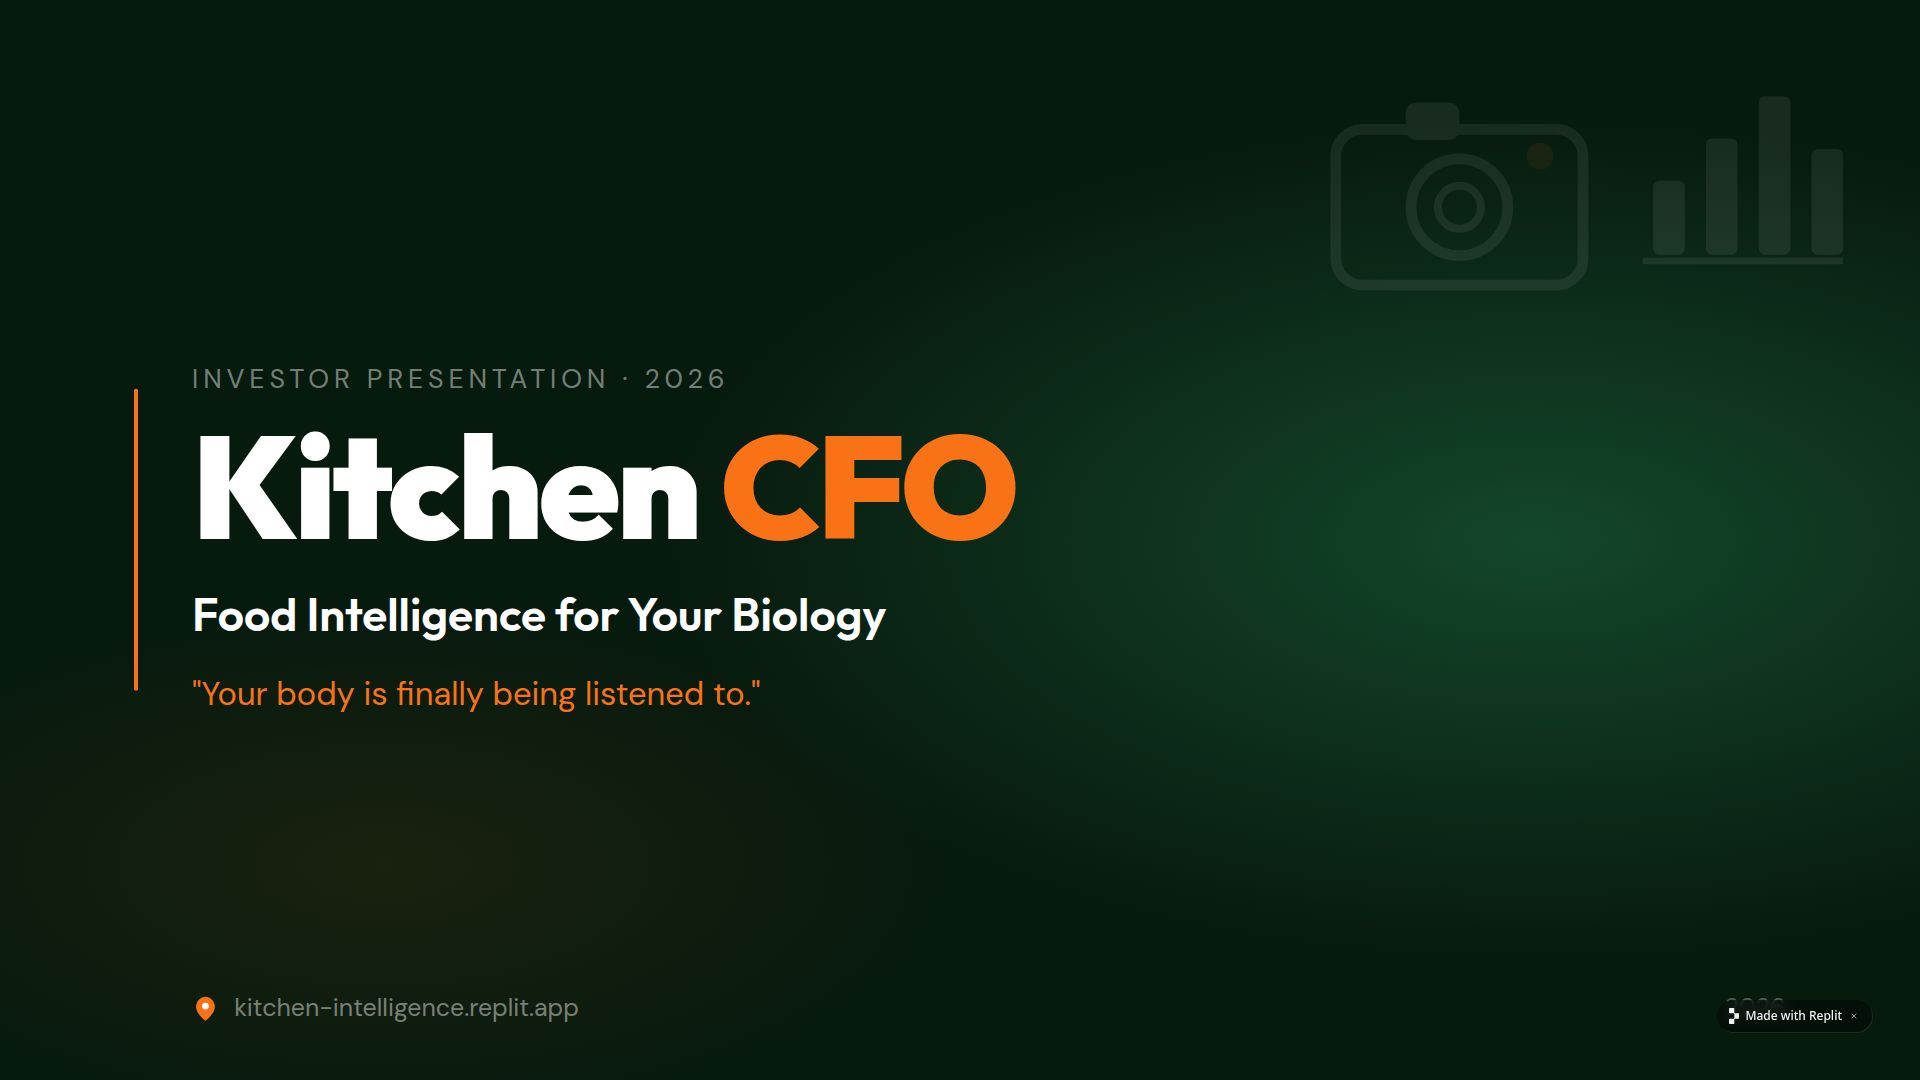
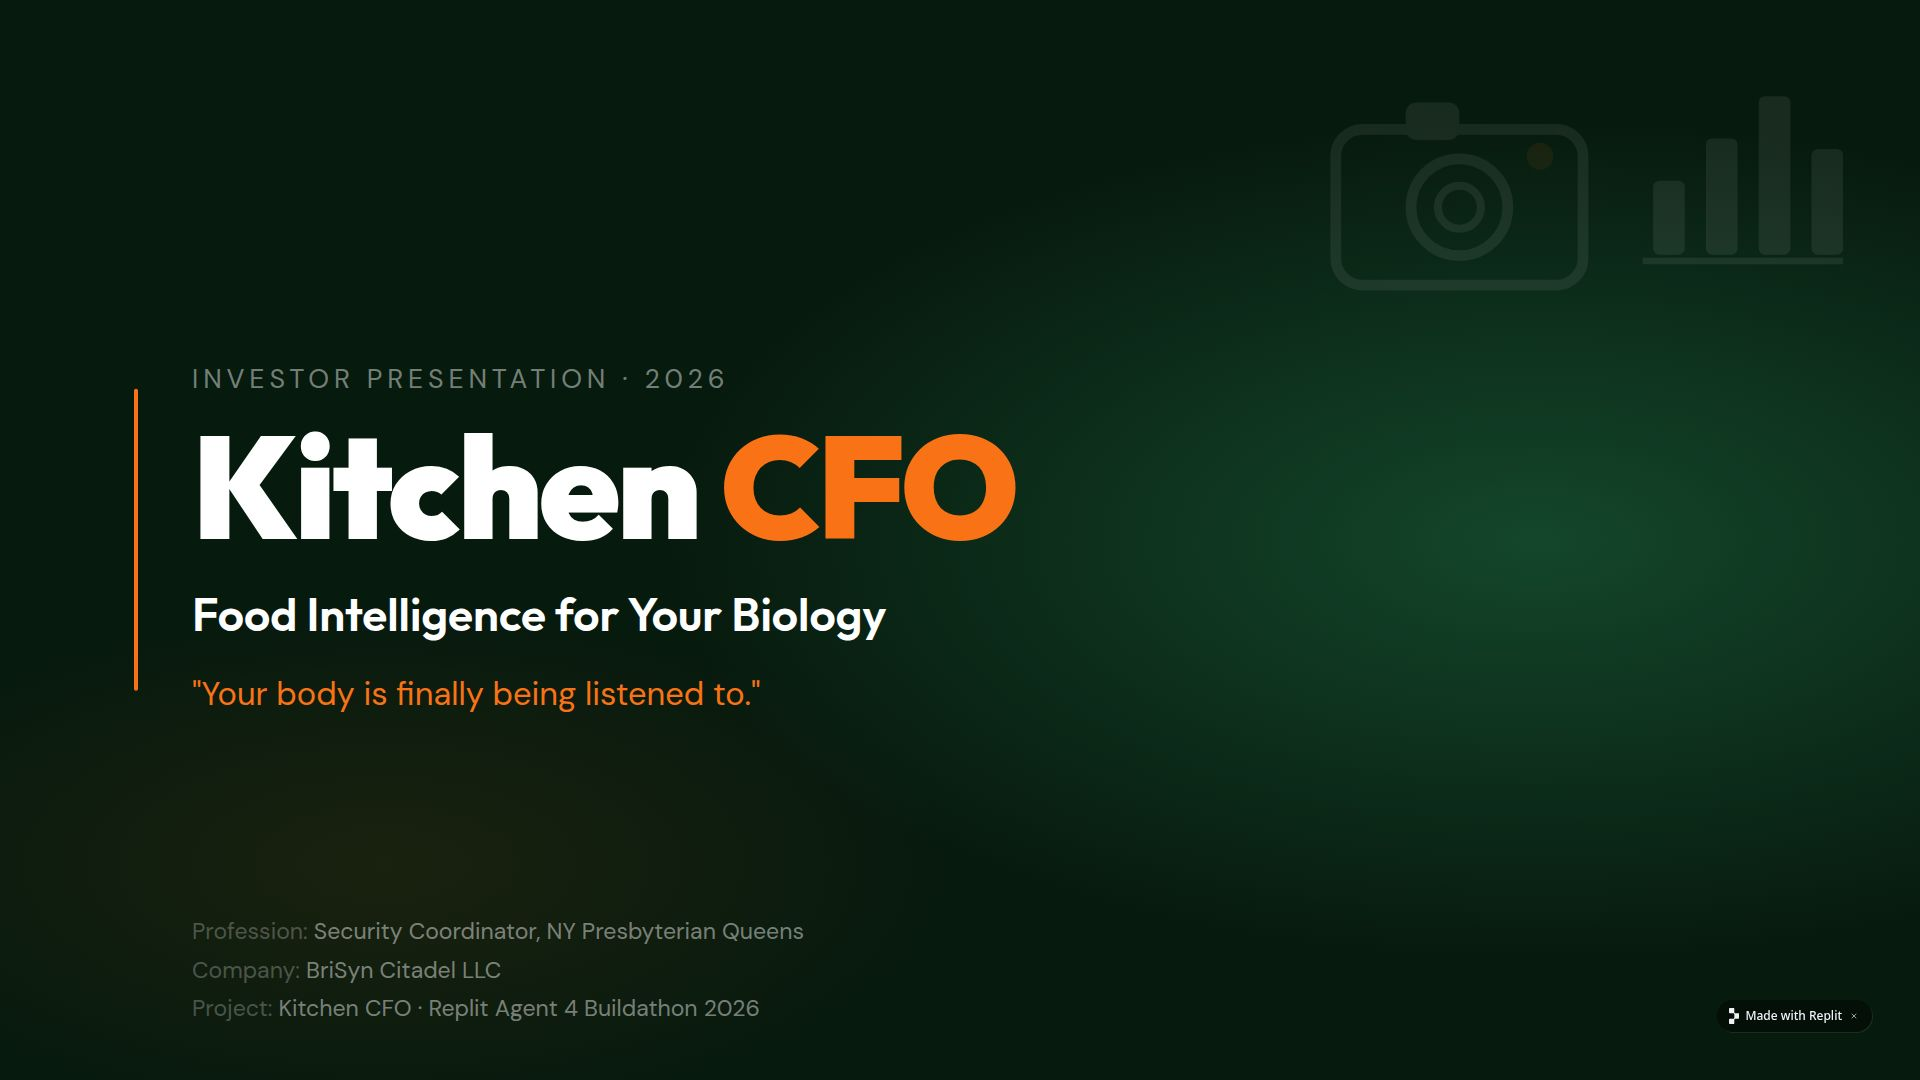
Update founder slide with personal and project credentials
Replace the website URL and year on the cover slide with the founder's profession, company, and project details.

Replit-Commit-Author: Agent
Replit-Commit-Session-Id: 745fa8b2-020f-492d-bbb9-6cfa988cd787
Replit-Commit-Checkpoint-Type: full_checkpoint
Replit-Commit-Event-Id: 27da4205-3aac-4eed-b647-15f0ba95cf77
Replit-Commit-Screenshot-Url: https://storage.googleapis.com/screenshot-production-us-central1/0ca190ca-fabc-4af2-86da-31d5412bf2b9/745fa8b2-020f-492d-bbb9-6cfa988cd787/2TSGZjT
Replit-Helium-Checkpoint-Created: true

Changed region(s): [[0.0938, 0.8556, 0.4062, 0.9472]]

diff --git a/artifacts/pitch-deck/src/pages/slides/Slide1Cover.tsx b/artifacts/pitch-deck/src/pages/slides/Slide1Cover.tsx
@@ -52,20 +52,19 @@ export default function Slide1Cover() {
 
       </div>
 
-      {/* Bottom strip */}
-      <div className="absolute bottom-[5vh] left-[10vw] right-[7vw] flex items-center justify-between">
-        <div className="flex items-center gap-[0.8vw]">
-          <svg width="1.4vw" height="1.4vw" viewBox="0 0 20 20" fill="none">
-            <path d="M10 2C6.5 2 3 5.5 3 9.5c0 5.25 7 10.5 7 10.5s7-5.25 7-10.5C17 5.5 13.5 2 10 2z" fill="#f97316"/>
-            <circle cx="10" cy="9" r="2.5" fill="white"/>
-          </svg>
-          <span className="font-body text-[1.3vw]" style={{ color: "rgba(255,255,255,0.45)" }}>
-            kitchen-intelligence.replit.app
+      {/* Bottom strip — founder credentials */}
+      <div className="absolute bottom-[5vh] left-[10vw] right-[7vw] flex items-end justify-between">
+        <div className="flex flex-col gap-[0.4vh]">
+          <span className="font-body text-[1.2vw]" style={{ color: "rgba(255,255,255,0.45)" }}>
+            <span style={{ color: "rgba(255,255,255,0.25)" }}>Profession:</span> Security Coordinator, NY Presbyterian Queens
+          </span>
+          <span className="font-body text-[1.2vw]" style={{ color: "rgba(255,255,255,0.45)" }}>
+            <span style={{ color: "rgba(255,255,255,0.25)" }}>Company:</span> BriSyn Citadel LLC
+          </span>
+          <span className="font-body text-[1.2vw]" style={{ color: "rgba(255,255,255,0.45)" }}>
+            <span style={{ color: "rgba(255,255,255,0.25)" }}>Project:</span> Kitchen CFO · Replit Agent 4 Buildathon 2026
           </span>
         </div>
-        <span className="font-body text-[1.3vw]" style={{ color: "rgba(255,255,255,0.3)" }}>
-          2026
-        </span>
       </div>
 
     </div>